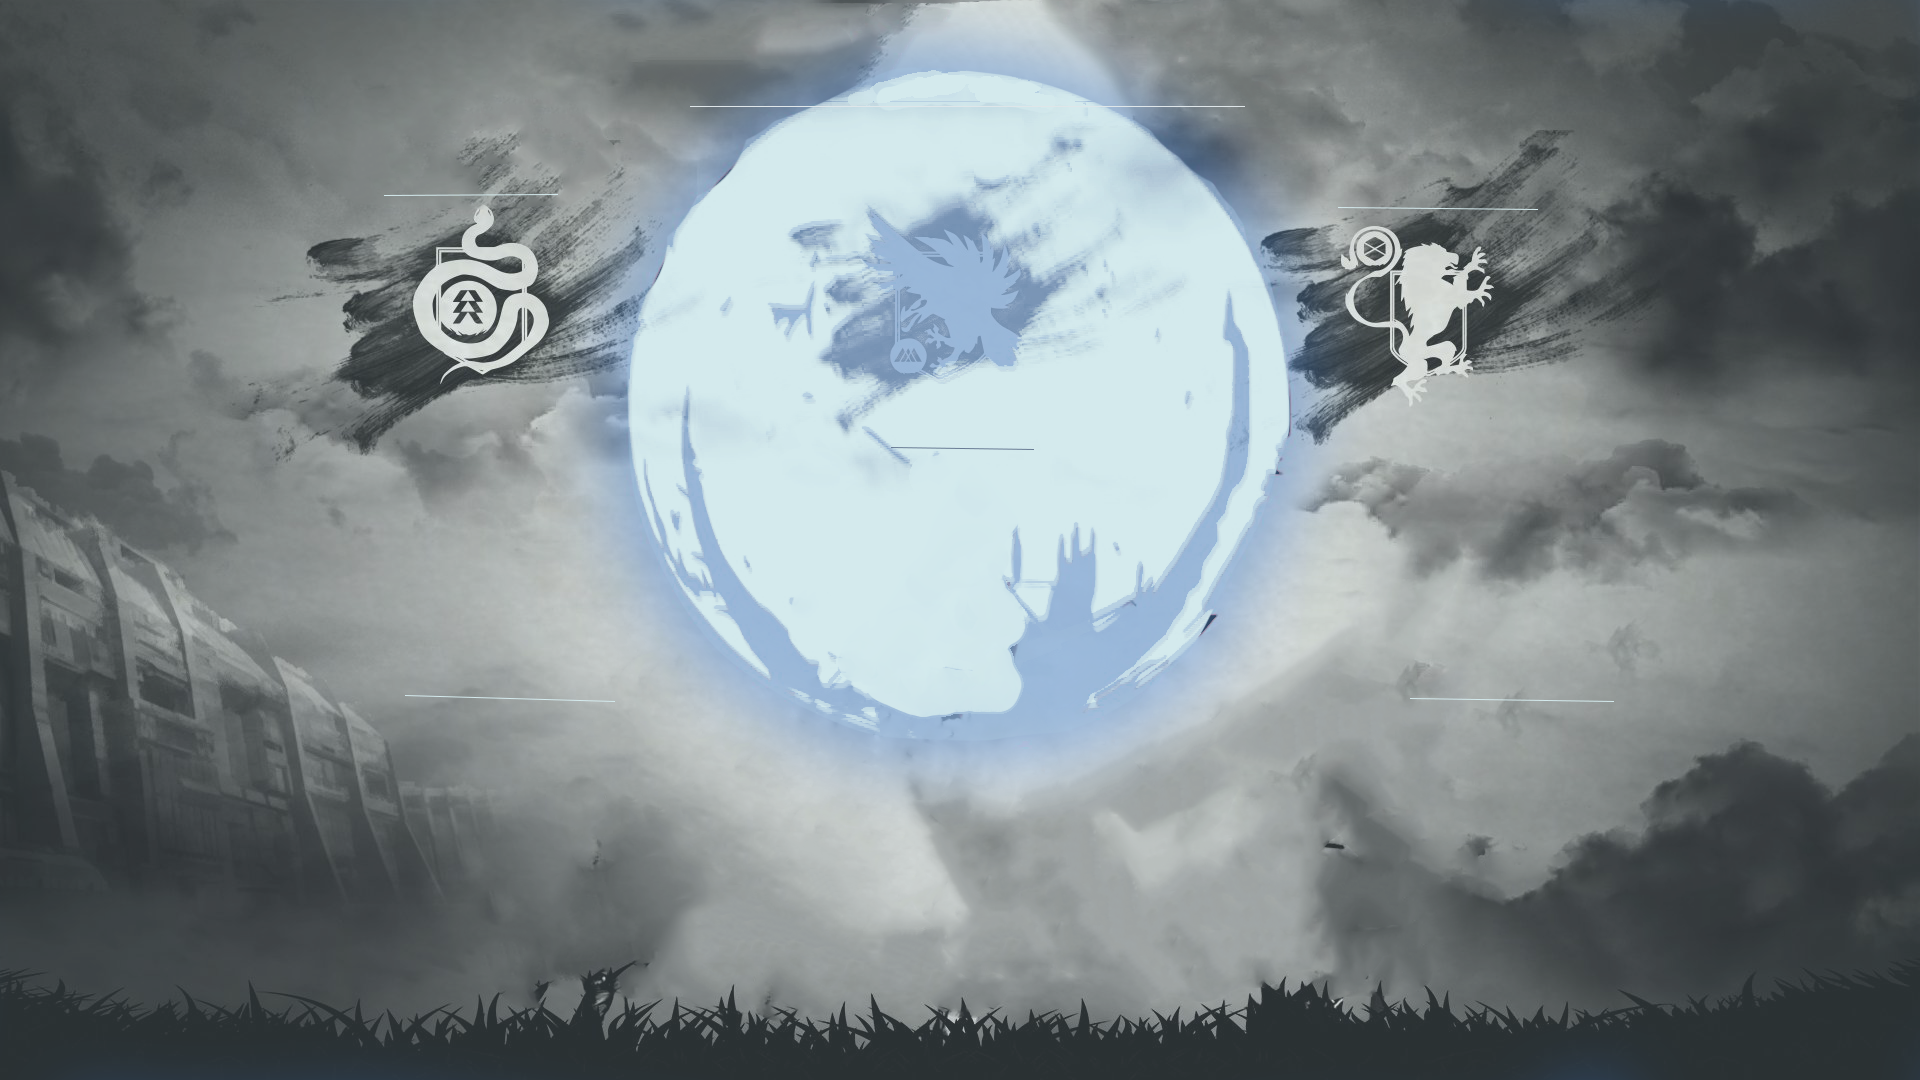
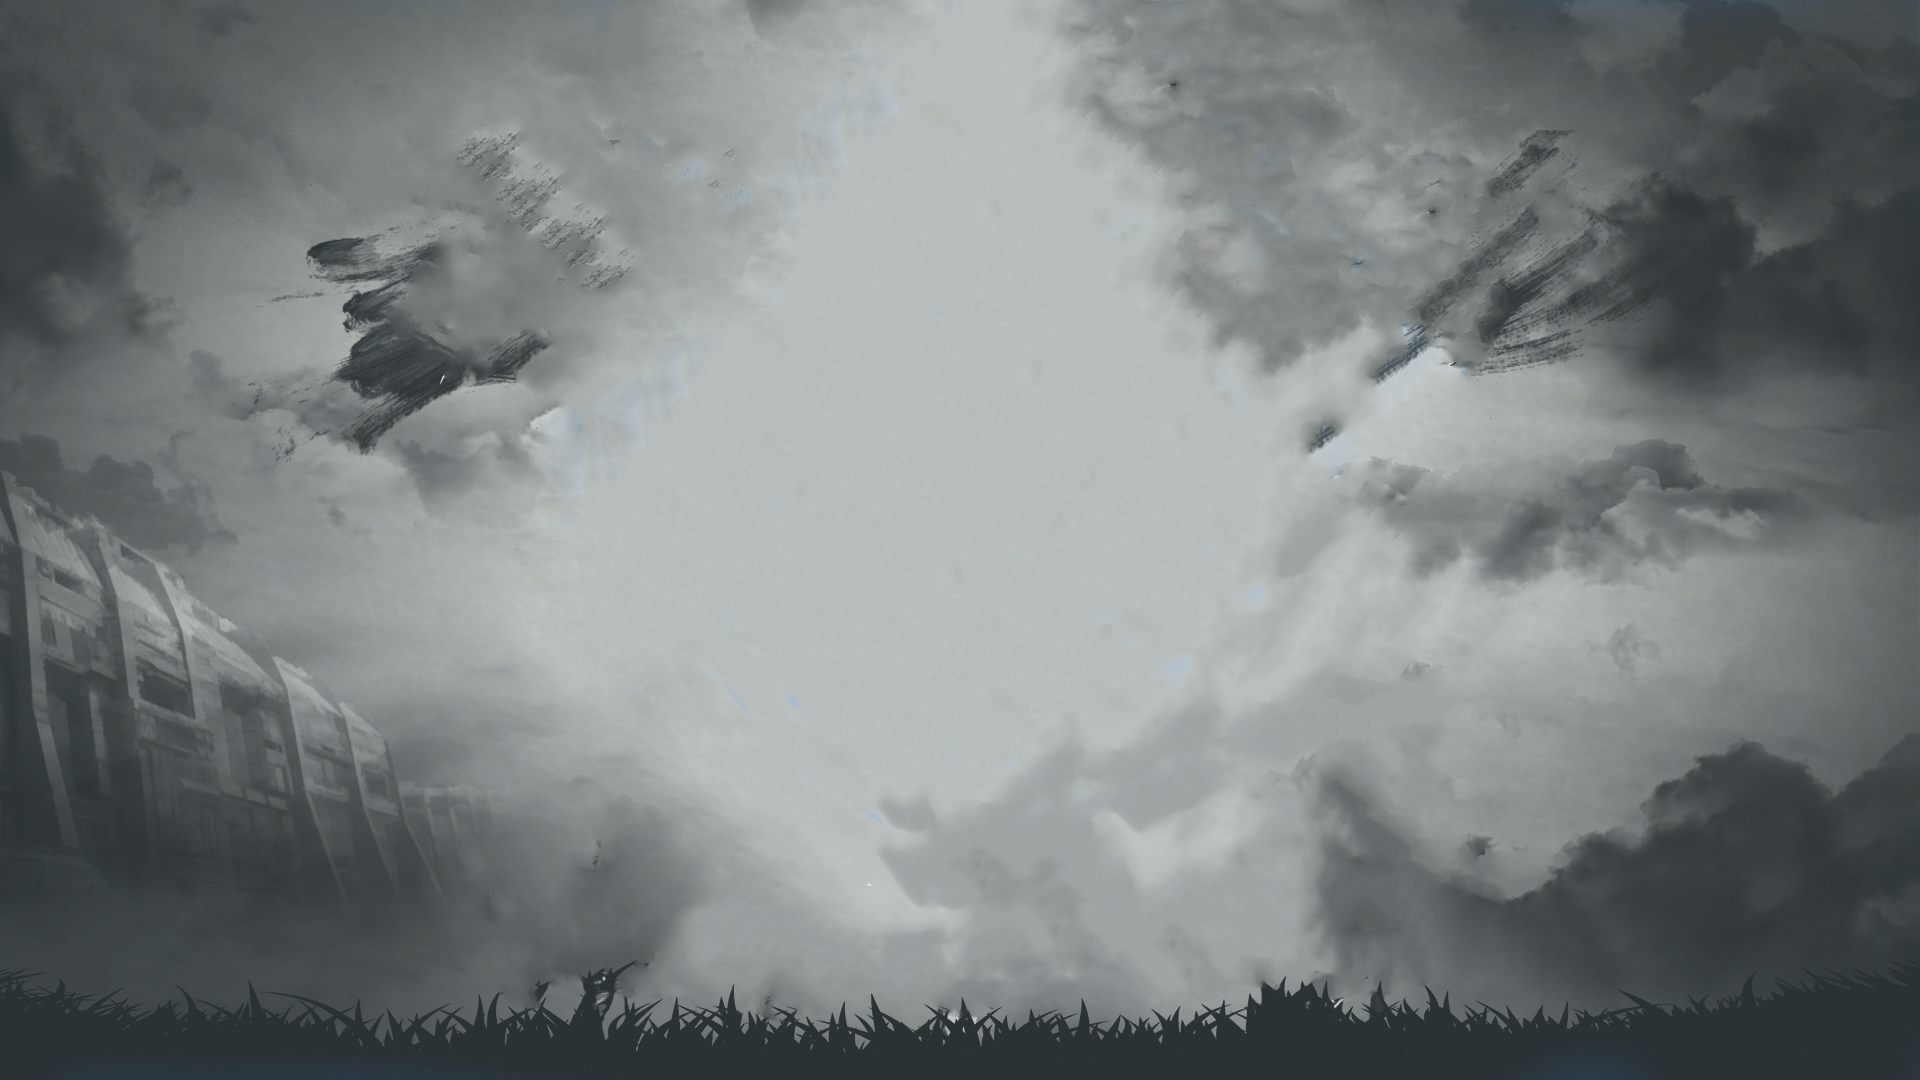
ok

Changed region(s): [[0.1875, 0.0, 0.8125, 0.8556]]

diff --git a/GdrDestiny/public/css/SitoFacciaEsterna/login.scss b/GdrDestiny/public/css/SitoFacciaEsterna/login.scss
@@ -16,7 +16,7 @@ section{
 }
 
 .ContainerSinistra{
-    left:9vh;
+    left:3vh;
     
 }
 
@@ -27,9 +27,20 @@ section{
     text-align: center;
 }
 .ContainerCentrale img{
+    opacity: 0.9;
+}
+#personaggioCentrale{ 
     height: 58vh;
+    
+    
+    
 }
 
+#loginText{
+    height: 5vh;
+   position: relative;
+   bottom: 2vh;
+}
 .ContainerDestra img , .ContainerSinistra img{
     height: 37vh;
 }
@@ -48,10 +59,51 @@ section{
 .SezioniHome{
     position: absolute;
     top: 13%;
+    padding-left: 18%;
+    padding-right: 18%;
 }
 .SezioniHome img{
     height: 4vh;
 }
 .titoloDestra{
     right:0;
+    text-align: end;
+}
+.circonferenzaBlu{
+    position: relative;
+    top:49vh;
+    
+    img{
+        height: 80vh;
+        
+    }
+    
+}
+.symbol{
+    height: 30vh !important;
+    display: block;
+}
+
+@media only screen and (max-width: 800px){
+    .circonferenzaBlu{
+        position: relative;
+        top:20vh;
+        
+        img{
+            height: 40vh;
+            
+        }
+        
+    }
+    .ContainerCentrale img{
+        height: 50vh;
+        opacity: 0.9;
+        
+    }
+    .SezioniHome{
+        
+        padding-left: 10%;
+        padding-right: 10%;
+    }
+
 }

diff --git a/GdrDestiny/public/css/SitoFacciaEsterna/login.css b/GdrDestiny/public/css/SitoFacciaEsterna/login.css
@@ -18,7 +18,7 @@ section {
 }
 
 .ContainerSinistra {
-  left: 9vh;
+  left: 3vh;
 }
 
 .ContainerCentrale, .title {
@@ -28,7 +28,17 @@ section {
 }
 
 .ContainerCentrale img {
+  opacity: 0.9;
+}
+
+#personaggioCentrale {
   height: 58vh;
+}
+
+#loginText {
+  height: 5vh;
+  position: relative;
+  bottom: 2vh;
 }
 
 .ContainerDestra img, .ContainerSinistra img {
@@ -51,6 +61,8 @@ section {
 .SezioniHome {
   position: absolute;
   top: 13%;
+  padding-left: 18%;
+  padding-right: 18%;
 }
 
 .SezioniHome img {
@@ -59,5 +71,38 @@ section {
 
 .titoloDestra {
   right: 0;
+  text-align: end;
+}
+
+.circonferenzaBlu {
+  position: relative;
+  top: 49vh;
+}
+
+.circonferenzaBlu img {
+  height: 80vh;
+}
+
+.symbol {
+  height: 30vh !important;
+  display: block;
+}
+
+@media only screen and (max-width: 800px) {
+  .circonferenzaBlu {
+    position: relative;
+    top: 20vh;
+  }
+  .circonferenzaBlu img {
+    height: 40vh;
+  }
+  .ContainerCentrale img {
+    height: 50vh;
+    opacity: 0.9;
+  }
+  .SezioniHome {
+    padding-left: 10%;
+    padding-right: 10%;
+  }
 }
 /*# sourceMappingURL=login.css.map */

diff --git a/GdrDestiny/resources/views/welcome2.blade.php b/GdrDestiny/resources/views/welcome2.blade.php
@@ -9,22 +9,34 @@
 <body>
     <section>
         <img id='sfondo' src="/img/imgHomeEsterna/sfondo.png" alt="">
+        
         <div class="title">
             <img src="/img/imgHomeEsterna/titleHome.png" alt="">
         </div>
         <div class="SezioniHome titoloSinistra">
+            <img src="/img/imgHomeEsterna/sxsimbolo.png" class='symbol' alt="">
             <img src="/img/imgHomeEsterna/iscrizione.png" alt="">
         </div>
         <div class="SezioniHome titoloDestra">
+            <img src="/img/imgHomeEsterna/dxtsimbolo.png" class='symbol'alt="">
             <img src="/img/imgHomeEsterna/ambientazione.png" alt="">
         </div>
         <div class="ContainerSinistra">
+            <img src="/img/imgHomeEsterna/regolamento.png" alt="">
             <img src="/img/imgHomeEsterna/sxpg.png" alt="">
         </div>
         <div class="ContainerCentrale">
-            <img src="/img/imgHomeEsterna/centralpg.png" alt="">
+        <div class="circonferenzaBlu">
+            <img src="/img/imgHomeEsterna/circonferenza.png" alt="">
+            </div>
+            <div class="loginButton">
+            <img id='loginText' src="/img/imgHomeEsterna/login.png" alt="">
+            </div>
+            <img id='PersonaggioCentrale' src="/img/imgHomeEsterna/centralpg.png" alt="">
+            
         </div>
         <div class="ContainerDestra">
+            <img src="/img/imgHomeEsterna/credits.png" alt="">
             <img src="/img/imgHomeEsterna/dxpg.png" alt="">
         </div>
     </section>
